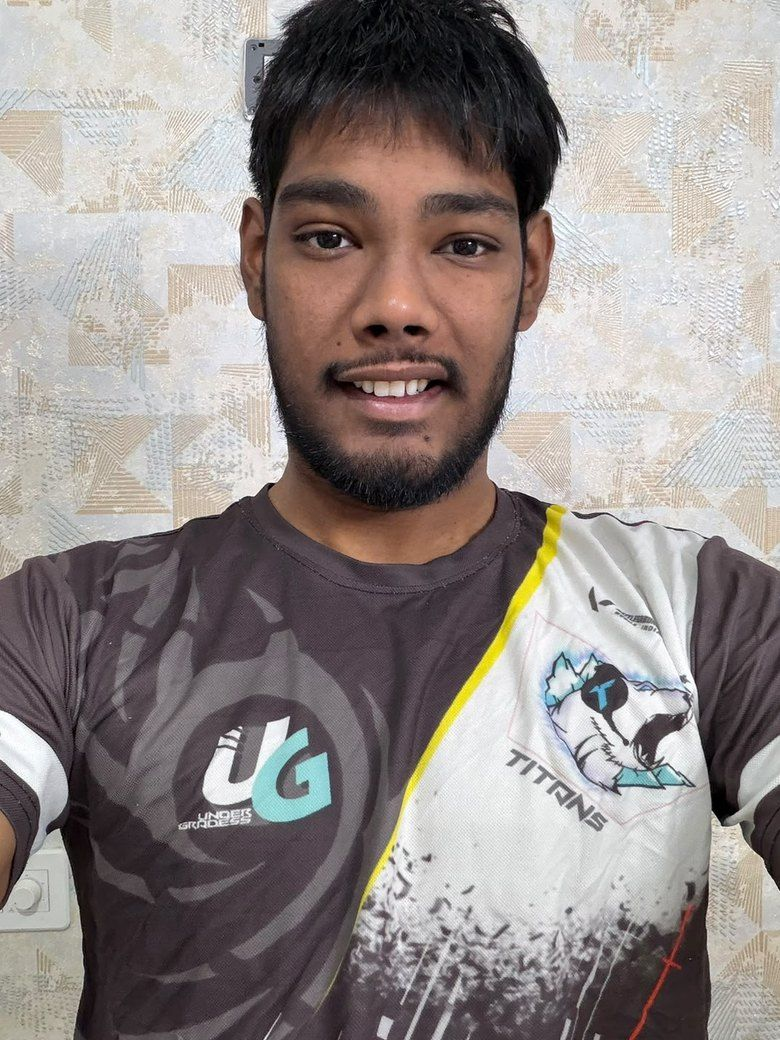
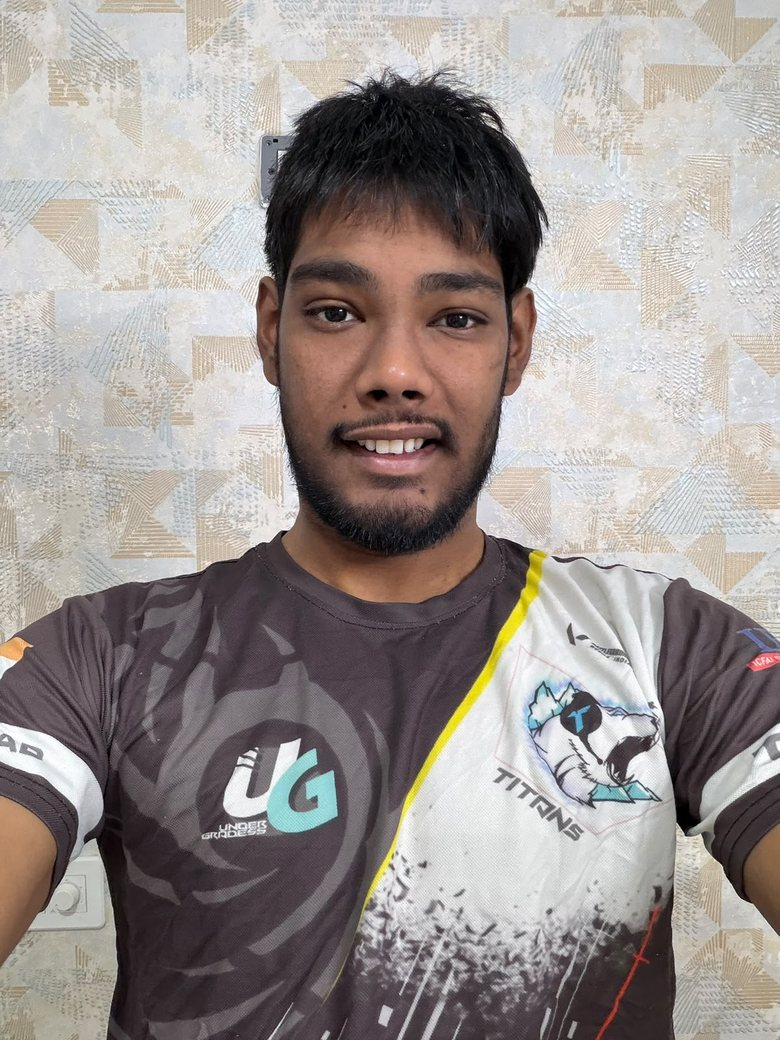
SRH v3: pointing hero, wider walk-out shots and faster kit change, dropshipping store, new guest photos, replaying SOLD finale
Claude-Session: https://claude.ai/code/session_018yCDpejobBH6E38wx2Ux6E

diff --git a/srh/v3.js b/srh/v3.js
@@ -23,7 +23,7 @@
   /* ============================ smooth scroll ============================ */
   var lenis = null;
   if (!RM && window.Lenis && window.gsap) {
-    lenis = new Lenis({ duration: 1.1, smoothWheel: true });
+    lenis = new Lenis({ lerp: 0.14, smoothWheel: true });
     if (window.ScrollTrigger) lenis.on('scroll', ScrollTrigger.update);
     gsap.ticker.add(function (t) { lenis.raf(t * 1000); });
     gsap.ticker.lagSmoothing(0);
@@ -90,7 +90,7 @@
     setTimeout(start, 1500);
   }
   var tk = $('#tk-track');
-  var TICK = [['1,000+ fans', 'HYROX Delhi, on the ground'], ['U19 national', 'badminton, for Telangana'], ['Top 5 of 93', 'goSTOPS challenge'], ['₹50L', 'jersey launch plan with NIVIA'], ['55+ reports', 'The Business Research Company'], ['60 players', 'IPL auction draft I ran'], ['10+ tournaments', 'TITANS IBS esports'], ['3 teams', 'one Orange Army']];
+  var TICK = [['1,000+ fans', 'HYROX Delhi, on the ground'], ['U19 national', 'badminton, for Telangana'], ['Top 5 of 93', 'goSTOPS challenge'], ['₹2L+ revenue', 'The Better Store, dropshipping'], ['₹50L', 'jersey launch plan with NIVIA'], ['55+ reports', 'The Business Research Company'], ['60 players', 'IPL auction draft I ran'], ['10+ tournaments', 'TITANS IBS esports'], ['3 teams', 'one Orange Army']];
   var tkHTML = TICK.map(function (t) { return '<span>' + esc(t[0]) + ' <small>' + esc(t[1]) + '</small></span>'; }).join('');
   tk.innerHTML = tkHTML + tkHTML;
   tk.lastElementChild && $$('span', tk).slice(TICK.length).forEach(function (s) { s.setAttribute('aria-hidden', 'true'); });
@@ -138,8 +138,9 @@
     $('#case-role').textContent = c.role || '';
     var m = $('#case-media'); m.innerHTML = '';
     if (c.video) m.innerHTML = '<video src="' + c.video + '" poster="' + c.poster + '" muted loop playsinline controls ' + (RM ? '' : 'autoplay') + ' aria-label="The IPL auction draft in progress"></video>';
+    else if (c.imgs) m.innerHTML = '<div class="case-strip">' + c.imgs.map(function (i) { return '<img src="' + i + '" alt="" loading="lazy">'; }).join('') + '</div>';
     else if (c.img) m.innerHTML = '<img src="' + c.img + '" alt="" style="object-position:' + (c.pos || '50% 30%') + '">';
-    m.hidden = !(c.video || c.img);
+    m.hidden = !(c.video || c.img || c.imgs); m.classList.toggle('strip', !!c.imgs);
     var a = $('#case-link'); if (c.link) { a.href = c.link; a.textContent = c.linkText || 'Open the deck'; a.hidden = false; } else a.hidden = true;
     if (lenis) lenis.stop();
     dlg.showModal ? dlg.showModal() : dlg.setAttribute('open', '');
@@ -187,7 +188,7 @@
   }
   setKit(0);
   if (!RM && window.ScrollTrigger) {
-    ScrollTrigger.create({ trigger: walk, start: 'top top', end: function () { return '+=' + innerHeight * 3.2; }, pin: '.walk-pin', anticipatePin: 1, invalidateOnRefresh: true,
+    ScrollTrigger.create({ trigger: walk, start: 'top top', end: function () { return '+=' + innerHeight * 2.4; }, pin: '.walk-pin', anticipatePin: 1, invalidateOnRefresh: true,
       onUpdate: function (s) { setKit(Math.min(KITS.length - 1, Math.floor(s.progress * KITS.length * 0.999))); } });
   } else { walk.classList.add('static'); setKit(KITS.length - 1); chs.forEach(function (c) { c.classList.add('on'); }); }
 
@@ -269,6 +270,8 @@
   /* ============================ 5. ORANGE VAULT ============================ */
   var WORK = [
     { slug: 'one-orange-army', type: 'Concept', title: 'One Orange Army, three seasons', org: 'A concept for the Sunrisers group', big: '4', res: 'Nights in an SA20 2027 pilot', img: 'media/projects/one-orange-army/thumb.jpg', page: true },
+    { slug: 'better-store', type: 'Dropshipping', title: 'The Better Store: grades in rupees', org: 'Masters’ Union · dropshipping store', big: '₹2L+', res: 'in revenue from a dropshipping store', img: 'media/projects/better-store/stall-crouch.jpg',
+      kicker: 'Dropshipping · Masters’ Union', text: 'A dropshipping store run from a stall on campus, where the stall is the classroom and the grades are in rupees. We sold massage guns, steam irons, humidifiers, gadgets and handmade gifts face to face. When Meta ads started burning too much money, selling through Meesho instead was my idea.', nums: [['₹2L+', 'revenue'], ['Meesho', 'my idea to replace costly Meta ads']], role: 'My role: picked the products, negotiated with suppliers, set the prices, ran the social media marketing and sold to customers at the stall.', imgs: ['media/projects/better-store/stall-crouch.jpg', 'media/projects/better-store/stall-table.jpg', 'media/projects/better-store/stall-customer.jpg', 'media/projects/better-store/stall-pitch.jpg', 'media/projects/better-store/stall-team.jpg'] },
     { slug: 'nivia-india-jersey', type: 'Launch', title: 'Wear the Blue: India’s football jersey', org: 'NIVIA · live industry challenge', big: '₹50L', res: 'launch plan; 30K jerseys in 90 days, base case', img: 'media/projects/nivia-india-jersey/thumb.jpg', page: true },
     { slug: 'gostops-off-season', type: 'Strategy', title: 'Filling hostels in the off-season', org: 'goSTOPS · one-day challenge', big: 'Top 5', res: 'of 93 teams; occupancy 27.5% → 43.8%', img: 'media/projects/gostops-off-season/thumb.jpg', page: true },
     { slug: 'hyrox-delhi', type: 'Event', title: 'HYROX Delhi: 1,000+ people, 2 days', org: 'HYROX Delhi · Masters’ Union', big: '1,000+', res: 'attendees over 2 competition days', img: 'media/projects/hyrox-delhi/thumb.jpg',
@@ -286,7 +289,7 @@
   WORK.forEach(function (w) {
     var el = document.createElement(w.page ? 'a' : 'button');
     el.className = 'news';
-    if (w.page) el.href = 'case.html?p=' + w.slug; else { el.type = 'button'; el.addEventListener('click', function () { openCase({ kicker: w.kicker, title: w.title, text: w.text, nums: w.nums, role: w.role, img: w.img, video: w.video, poster: w.poster, link: w.link }); }); }
+    if (w.page) el.href = 'case.html?p=' + w.slug; else { el.type = 'button'; el.addEventListener('click', function () { openCase({ kicker: w.kicker, title: w.title, text: w.text, nums: w.nums, role: w.role, img: w.img, imgs: w.imgs, video: w.video, poster: w.poster, link: w.link }); }); }
     el.innerHTML = '<div class="news-img"><img src="' + w.img + '" alt="" loading="lazy"><span class="news-type">' + esc(w.type) + '</span></div>' +
       '<div class="news-body"><span class="news-org">' + esc(w.org) + '</span><h3>' + esc(w.title) + '</h3><div class="news-res"><b>' + esc(w.big) + '</b><span>' + esc(w.res) + '</span></div><span class="news-more">' + (w.page ? 'Read the case →' : 'Read more →') + '</span></div>';
     vTrack.appendChild(el);
@@ -354,17 +357,20 @@
 
   /* ============================ 7. GALLERY + LOGOS ============================ */
   var GAL = [
-    ['media/photos/sport-india-2026.jpg', 'Sport India Conference 2026, Vision 2036 panel, Bharat Mandapam', 'wide'],
-    ['media/photos/iamgame-awards.jpg', 'Masters’ Union cohort at the EY I Am Game Sports Awards 2026', 'tall'],
-    ['media/photos/hyrox.jpg', 'HYROX Delhi 2026, with the Masters’ Union team', 'tall'],
-    ['media/photos/iamgame-guest.jpg', 'With K. Srinivas Rao, Head of Sports Group at Times of India, at I Am Game 2026', ''],
-    ['media/photos/conclave-guest.jpg', 'With Manish, VP Commercials & Partnerships at JioStar, at I Am Game 2026', ''],
-    ['media/photos/nivia-jersey.jpg', 'With the India football jersey, NIVIA live challenge', 'tall'],
+    ['media/photos/sport-india-2026.jpg', 'Sport India Conference 2026, Vision 2036 panel, Bharat Mandapam', 'wide', '50% 40%'],
+    ['media/photos/viren-rasquinha.jpg', 'With Viren Rasquinha, former India hockey captain, at Masters’ Union', ''],
+    ['media/photos/hudle-ceo.jpg', 'With Suhail Narain, Founder and CEO of Hudle', ''],
+    ['media/photos/pbks-coo.jpg', 'With the COO of Punjab Kings', ''],
+    ['media/photos/iamgame-guest.jpg', 'With K. Srinivas Rao, Head of Sports Group at Times of India, at I Am Game 2026', '', '50% 12%'],
+    ['media/photos/iamgame-awards.jpg', 'Masters’ Union cohort at the EY I Am Game Sports Awards 2026', ''],
+    ['media/photos/conclave-guest.jpg', 'With Manish, VP Commercials & Partnerships at JioStar, at I Am Game 2026', '', '50% 15%'],
+    ['media/photos/hyrox.jpg', 'HYROX Delhi 2026, with the Masters’ Union team', ''],
+    ['media/projects/better-store/stall-selfie.jpg', 'Running The Better Store stall at Masters’ Union', 'wide', '50% 30%'],
+    ['media/photos/nivia-jersey.jpg', 'With the India football jersey, NIVIA live challenge', ''],
     ['media/photos/smg-night.jpg', 'SMG Club night, Masters’ Union', 'wide'],
-    ['media/photos/auction-draft.jpg', 'The IPL auction draft, SMG Club', 'wide'],
-    ['media/photos/titans-jersey.jpg', 'TITANS IBS esports jersey', 'tall']
+    ['media/photos/auction-draft.jpg', 'The IPL auction draft, SMG Club', 'wide']
   ];
-  $('#gal-grid').innerHTML = GAL.map(function (g) { return '<figure class="' + g[2] + '" data-reveal><img src="' + g[0] + '" alt="' + esc(g[1]) + '" loading="lazy"><figcaption>' + esc(g[1]) + '</figcaption></figure>'; }).join('');
+  $('#gal-grid').innerHTML = GAL.map(function (g) { return '<figure class="' + g[2] + '" data-reveal><img src="' + g[0] + '" alt="' + esc(g[1]) + '" loading="lazy" style="object-position:' + (g[3] || '50% 20%') + '"><figcaption>' + esc(g[1]) + '</figcaption></figure>'; }).join('');
   io($$('#gal-grid figure'), function (el) { el.classList.add('in'); }, { threshold: .15 });
   var LOGOS = [['media/logos/orgs/masters-union.svg', 'Masters’ Union · SMG Club'], ['media/logos/orgs/hyrox.svg', 'HYROX Delhi 2026'], ['media/logos/orgs/tbrc.svg', 'The Business Research Company'], ['media/logos/orgs/titans.svg', 'TITANS IBS esports'], ['media/logos/orgs/icfai.svg', 'ICFAI Business School'], ['', 'NIVIA · live challenge', 'NIVIA'], ['', 'goSTOPS · live challenge', 'goSTOPS'], ['media/logos/orgs/examate.svg', 'Examate']];
   $('#logos').innerHTML = LOGOS.map(function (l) { return '<div class="logo" data-reveal>' + (l[0] ? '<img src="' + l[0] + '" alt="" loading="lazy">' : '<b style="font:400 30px/1 var(--disp);text-transform:uppercase;color:var(--tx)">' + esc(l[2]) + '</b>') + '<span>' + esc(l[1]) + '</span></div>'; }).join('');
@@ -372,13 +378,18 @@
 
   /* ============================ 8. FANZONE: auction finale ============================ */
   var bids = $$('#bids li'), sold = $('#sold'), soldRow = $('.sold-row');
-  io([$('#bids')], function () {
-    bids.forEach(function (b, i) { setTimeout(function () { b.classList.add('on'); }, RM ? 0 : 250 + i * 550); });
-    setTimeout(function () {
+  var soldT = [];
+  function playSold() {
+    soldT.forEach(clearTimeout); soldT = [];
+    bids.forEach(function (b, i) { soldT.push(setTimeout(function () { b.classList.add('on'); }, RM ? 0 : 200 + i * 450)); });
+    soldT.push(setTimeout(function () {
       sold.classList.add('on'); soldRow.classList.add('on');
-      setTimeout(function () { var r = sold.getBoundingClientRect(); burst(r.left + r.width / 2, r.top + r.height / 2, 90, 1.3); }, 260);
-    }, RM ? 0 : 250 + bids.length * 550 + 200);
-  }, { threshold: .5 });
+      soldT.push(setTimeout(function () { var r = sold.getBoundingClientRect(); burst(r.left + r.width / 2, r.top + r.height / 2, 90, 1.3); }, 260));
+    }, RM ? 0 : 200 + bids.length * 450 + 150));
+  }
+  function resetSold() { soldT.forEach(clearTimeout); soldT = []; bids.forEach(function (b) { b.classList.remove('on'); }); sold.classList.remove('on'); soldRow.classList.remove('on'); }
+  if ('IntersectionObserver' in window) new IntersectionObserver(function (es) { es.forEach(function (e) { if (e.isIntersecting) playSold(); else resetSold(); }); }, { threshold: .35 }).observe($('#bids'));
+  else playSold();
 
   /* ============================ 9. HEY RISER ============================ */
   var bot = $('#bot'), botBtn = $('#bot-btn'), msgs = $('#bot-msgs'), choices = $('#bot-choices'), teaser = $('#bot-teaser');

diff --git a/srh/v3.css b/srh/v3.css
@@ -137,7 +137,7 @@ p{margin:0}
 .walk-head h2{font-size:clamp(40px,5.4vw,84px)}
 .walk-stage{display:grid;grid-template-columns:minmax(0,0.9fr) minmax(0,1.1fr);gap:clamp(28px,5vw,80px);align-items:center}
 .walk-frame{position:relative;aspect-ratio:3/4;max-height:66svh;width:100%;max-width:520px;justify-self:end;border-radius:22px;overflow:hidden;background:#000;box-shadow:0 0 0 2px rgba(242,101,34,.6),0 0 60px -10px rgba(242,101,34,.7),0 40px 80px -30px rgba(0,0,0,.9)}
-.walk-shot{position:absolute;inset:0;clip-path:polygon(0 0,0 0,-30% 100%,-30% 100%);transition:clip-path .75s var(--ease)}
+.walk-shot{position:absolute;inset:0;clip-path:polygon(0 0,0 0,-30% 100%,-30% 100%);transition:clip-path .45s var(--ease)}
 .walk-shot.on,.walk-shot.past{clip-path:polygon(0 0,130% 0,100% 100%,-30% 100%)}
 .walk-shot img{width:100%;height:100%;object-fit:cover}
 .walk-shot::after{content:"";position:absolute;inset:0;background:linear-gradient(180deg,transparent 55%,rgba(10,10,11,.85))}
@@ -146,7 +146,7 @@ p{margin:0}
 .walk-flash.go{animation:flash .7s ease}
 @keyframes flash{to{transform:translateX(120%)}}
 .walk-copy{position:relative;min-height:340px}
-.walk-ch{position:absolute;inset:0 0 auto 0;opacity:0;transform:translateY(30px);transition:opacity .45s ease,transform .6s var(--ease);pointer-events:none}
+.walk-ch{position:absolute;inset:0 0 auto 0;opacity:0;transform:translateY(20px);transition:opacity .3s ease,transform .4s var(--ease);pointer-events:none}
 .walk-ch.on{opacity:1;transform:none;pointer-events:auto}
 .walk-ch .mono{color:var(--or);margin-bottom:14px}
 .walk-ch h3{font-size:clamp(40px,5vw,80px);margin-bottom:16px}
@@ -309,7 +309,7 @@ p{margin:0}
 .room-list b{font:400 22px/1.05 var(--disp);text-transform:uppercase}
 
 /* ---------- GALLERY ---------- */
-.gal-grid{display:grid;grid-auto-flow:dense;grid-template-columns:repeat(4,minmax(0,1fr));grid-auto-rows:200px;gap:14px;max-width:1400px}
+.gal-grid{display:grid;grid-auto-flow:dense;grid-template-columns:repeat(4,minmax(0,1fr));grid-auto-rows:320px;gap:14px;max-width:1400px}
 .gal-grid figure{position:relative;margin:0;border-radius:16px;overflow:hidden;background:#000}
 .gal-grid figure.tall{grid-row:span 2}
 .gal-grid figure.wide{grid-column:span 2}
@@ -451,13 +451,15 @@ dialog.case[open]{animation:pop .35s var(--ease)}
   .arrows{display:none}
   .walk-pin{padding-top:80px;justify-content:flex-start}
   .walk-stage{grid-template-columns:1fr;gap:18px}
-  .walk-head{margin-bottom:14px}
+  .walk-pin{padding-top:72px}
+  .walk-head{margin-bottom:10px}
+  .walk-head .eyebrow{margin-bottom:8px}
   .walk-head h2{font-size:34px}
-  .walk-frame{justify-self:center;max-width:none;width:auto;height:34svh;max-height:none}
+  .walk-frame{justify-self:center;max-width:none;width:auto;height:29svh;max-height:none}
   .walk-num{font-size:72px}
   .logos{grid-template-columns:repeat(2,minmax(0,1fr))}
-  .walk-copy{min-height:270px}
-  .walk-ch h3{font-size:30px;margin-bottom:8px}
+  .walk-copy{min-height:300px}
+  .walk-ch h3{font-size:26px;margin-bottom:6px}
   .walk-ch .mono{margin-bottom:8px}
   .walk-ch p.t{font-size:15px}
   .nums{gap:8px;margin-top:14px}
@@ -473,7 +475,8 @@ dialog.case[open]{animation:pop .35s var(--ease)}
   .scene::-webkit-scrollbar{display:none}
   .scene-in{right:auto;width:920px}
   .scene-hint{display:block}
-  .gal-grid{grid-auto-rows:160px}
+  .gal-grid{grid-auto-rows:240px}
+  .gal-grid figure.wide{grid-column:span 2}
   .quotes,.edu{grid-template-columns:1fr}
   .lot-name{font-size:34px}
   .sold{font-size:48px}
@@ -505,3 +508,8 @@ dialog.case[open]{animation:pop .35s var(--ease)}
 .bot-av img{width:100%;height:auto}
 @media (max-width:760px){.hd-mark{width:52px;height:39px}.hero-crest{width:84px}.bot-btn img{width:40px}}
 .fx,.fan,.sec{overflow-x:clip}
+
+.case-media.strip{aspect-ratio:auto;background:#000}
+.case-strip{display:flex;gap:8px;overflow-x:auto;scroll-snap-type:x mandatory;padding:8px;scrollbar-width:thin}
+.case-strip img{height:min(56svh,460px);width:auto!important;flex:none;border-radius:10px;scroll-snap-align:start;object-fit:cover}
+.case-nums:empty{display:none}

diff --git a/srh/index.html b/srh/index.html
@@ -48,7 +48,7 @@
   <div class="lights" aria-hidden="true"><i class="beam b1"></i><i class="beam b2"></i><i class="beam b3"></i><i class="beam b4"></i></div>
   <canvas class="embers" id="embers" aria-hidden="true"></canvas>
   <div class="hero-word" aria-hidden="true"><span>ORANGE</span><span>ARMY</span></div>
-  <img class="hero-me" src="media/photos/hero-cutout.webp" alt="Anudeep Gupta in the Sunrisers Hyderabad jersey" width="900" height="1194">
+  <img class="hero-me" src="media/photos/hero-cutout.webp" alt="Anudeep Gupta in the Sunrisers Hyderabad jersey, pointing at the crest" width="900" height="1218">
   <div class="hero-copy">
     <div class="crest-row"><img class="hero-crest" src="media/logos/srh-logo.webp" alt="Sunrisers Hyderabad" width="640" height="481"><p class="tag"><i class="live" aria-hidden="true"></i>Breaking · New signing</p></div>
     <h1><span class="h1-a">Welcome to the Orange Army,</span><span class="h1-b">Anudeep <em>Gupta</em></span></h1>
@@ -248,7 +248,7 @@
 <!-- ============================== FANZONE (auction finale + contact) ============================== -->
 <section class="sec fan" id="fanzone" aria-labelledby="fan-h">
   <div class="lot" id="lot">
-    <div class="lot-photo"><img src="media/photos/srh-jersey.jpg" alt="Anudeep in the Sunrisers Hyderabad jersey" loading="lazy"><span class="mono lot-tag">Lot 01 · Uncapped</span><img class="lot-crest" src="media/logos/srh-logo-sm.webp" alt=""></div>
+    <div class="lot-photo"><img src="media/photos/srh-neutral.jpg" alt="Anudeep in the Sunrisers Hyderabad jersey" loading="lazy"><span class="mono lot-tag">Lot 01 · Uncapped</span></div>
     <div class="lot-body">
       <b class="lot-name">Anudeep Gupta</b>
       <span>Fan engagement · All-rounder</span>
